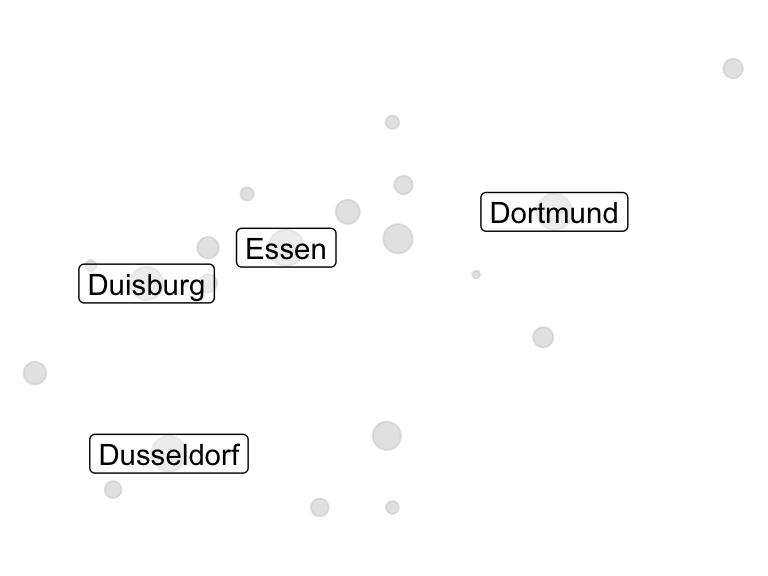
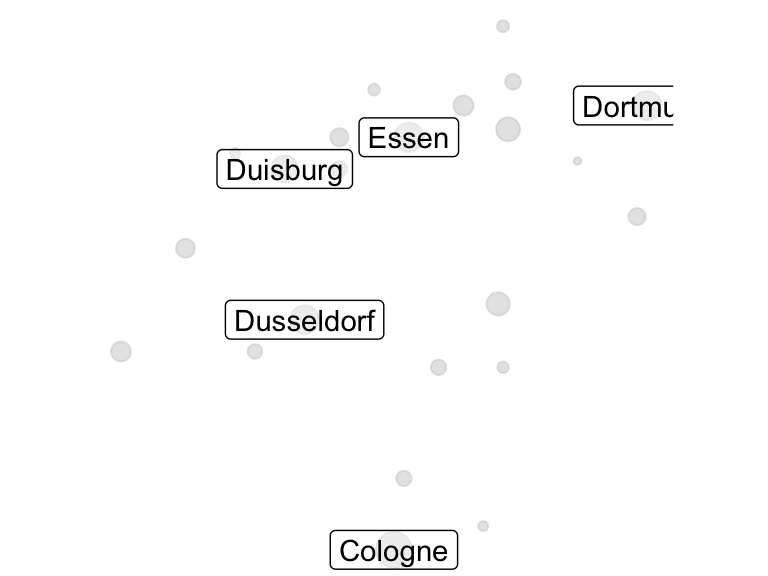
Built site for gh-pages

diff --git a/posts/2024-07-20-r-round/index.html b/posts/2024-07-20-r-round/index.html
@@ -185,7 +185,7 @@ pre > code.sourceCode > span > a:first-child::before { text-decoration: underlin
 
 <section id="round-to-first-two-digits" class="level1">
 <h1>Round to first two digits</h1>
-<p>To improve the readability of a table, I wanted to round various numbers between 100 and 10,000,000 two their first two digits. 123,456 would become 120,000 and 987 would become 980.</p>
+<p>To improve the readability of a table, I wanted to round various numbers between 100 and 10,000,000 to their first two digits. 123,456 would become 120,000 and 987 would become 990.</p>
 <p>Here is the solution I came up with.</p>
 <div class="cell">
 <details class="code-fold">
@@ -202,28 +202,30 @@ pre > code.sourceCode > span > a:first-child::before { text-decoration: underlin
 <span id="cb2-3"><a href="#cb2-3" aria-hidden="true" tabindex="-1"></a>  <span class="fu">round</span>(x <span class="sc">/</span> scale, <span class="dv">2</span>) <span class="sc">*</span> scale</span>
 <span id="cb2-4"><a href="#cb2-4" aria-hidden="true" tabindex="-1"></a>}</span>
 <span id="cb2-5"><a href="#cb2-5" aria-hidden="true" tabindex="-1"></a></span>
-<span id="cb2-6"><a href="#cb2-6" aria-hidden="true" tabindex="-1"></a>x1 <span class="ot">&lt;-</span> <span class="fu">c</span>(<span class="dv">113</span>, <span class="dv">2795</span>, <span class="dv">42459</span>, <span class="dv">442060</span>, <span class="dv">6970466</span>)</span>
+<span id="cb2-6"><a href="#cb2-6" aria-hidden="true" tabindex="-1"></a>x1 <span class="ot">&lt;-</span> <span class="fu">c</span>(<span class="dv">113</span>, <span class="dv">2795</span>, <span class="dv">42459</span>, <span class="dv">442060</span>, <span class="dv">6870466</span>)</span>
 <span id="cb2-7"><a href="#cb2-7" aria-hidden="true" tabindex="-1"></a></span>
 <span id="cb2-8"><a href="#cb2-8" aria-hidden="true" tabindex="-1"></a>x1</span></code><button title="Copy to Clipboard" class="code-copy-button"><i class="bi"></i></button></pre></div>
 <div class="cell-output cell-output-stdout">
-<pre><code>[1]     113    2795   42459  442060 6970466</code></pre>
+<pre><code>[1]     113    2795   42459  442060 6870466</code></pre>
 </div>
 <div class="sourceCode cell-code" id="cb4"><pre class="sourceCode r code-with-copy"><code class="sourceCode r"><span id="cb4-1"><a href="#cb4-1" aria-hidden="true" tabindex="-1"></a><span class="fu">map_dbl</span>(x1, round_first_two)</span></code><button title="Copy to Clipboard" class="code-copy-button"><i class="bi"></i></button></pre></div>
 <div class="cell-output cell-output-stdout">
-<pre><code>[1]     110    2800   42000  440000 7000000</code></pre>
+<pre><code>[1]     110    2800   42000  440000 6900000</code></pre>
 </div>
 </div>
+<section id="copilot" class="level2">
+<h2 class="anchored" data-anchor-id="copilot">Copilot</h2>
 <p><a href="https://copilot.github.com/">GitHub Copilot</a> suggested a more general solution that works for numbers smaller and equal to zero.</p>
 <div class="cell">
-<div class="sourceCode cell-code" id="cb6"><pre class="sourceCode r code-with-copy"><code class="sourceCode r"><span id="cb6-1"><a href="#cb6-1" aria-hidden="true" tabindex="-1"></a>x2 <span class="ot">&lt;-</span> <span class="fu">c</span>(<span class="dv">113</span>, <span class="sc">-</span><span class="dv">2795</span>, <span class="sc">-</span><span class="dv">42459</span>, <span class="sc">-</span><span class="dv">442060</span>, <span class="dv">6970466</span>, <span class="dv">0</span>)</span>
+<div class="sourceCode cell-code" id="cb6"><pre class="sourceCode r code-with-copy"><code class="sourceCode r"><span id="cb6-1"><a href="#cb6-1" aria-hidden="true" tabindex="-1"></a>x2 <span class="ot">&lt;-</span> <span class="fu">c</span>(<span class="dv">113</span>, <span class="sc">-</span><span class="dv">2795</span>, <span class="sc">-</span><span class="dv">42459</span>, <span class="sc">-</span><span class="dv">442060</span>, <span class="dv">6870466</span>, <span class="dv">0</span>)</span>
 <span id="cb6-2"><a href="#cb6-2" aria-hidden="true" tabindex="-1"></a></span>
 <span id="cb6-3"><a href="#cb6-3" aria-hidden="true" tabindex="-1"></a>x2</span></code><button title="Copy to Clipboard" class="code-copy-button"><i class="bi"></i></button></pre></div>
 <div class="cell-output cell-output-stdout">
-<pre><code>[1]     113   -2795  -42459 -442060 6970466       0</code></pre>
+<pre><code>[1]     113   -2795  -42459 -442060 6870466       0</code></pre>
 </div>
 <div class="sourceCode cell-code" id="cb8"><pre class="sourceCode r code-with-copy"><code class="sourceCode r"><span id="cb8-1"><a href="#cb8-1" aria-hidden="true" tabindex="-1"></a><span class="fu">map_dbl</span>(x2, round_first_two)</span></code><button title="Copy to Clipboard" class="code-copy-button"><i class="bi"></i></button></pre></div>
 <div class="cell-output cell-output-stdout">
-<pre><code>[1]     110     NaN     NaN     NaN 7000000     NaN</code></pre>
+<pre><code>[1]     110     NaN     NaN     NaN 6900000     NaN</code></pre>
 </div>
 <div class="sourceCode cell-code" id="cb10"><pre class="sourceCode r code-with-copy"><code class="sourceCode r"><span id="cb10-1"><a href="#cb10-1" aria-hidden="true" tabindex="-1"></a>round_first_two_digits <span class="ot">&lt;-</span> <span class="cf">function</span>(x) {</span>
 <span id="cb10-2"><a href="#cb10-2" aria-hidden="true" tabindex="-1"></a>  <span class="cf">if</span>(x <span class="sc">==</span> <span class="dv">0</span>) <span class="fu">return</span>(<span class="dv">0</span>)</span>
@@ -235,17 +237,18 @@ pre > code.sourceCode > span > a:first-child::before { text-decoration: underlin
 <span id="cb10-8"><a href="#cb10-8" aria-hidden="true" tabindex="-1"></a></span>
 <span id="cb10-9"><a href="#cb10-9" aria-hidden="true" tabindex="-1"></a>x2</span></code><button title="Copy to Clipboard" class="code-copy-button"><i class="bi"></i></button></pre></div>
 <div class="cell-output cell-output-stdout">
-<pre><code>[1]     113   -2795  -42459 -442060 6970466       0</code></pre>
+<pre><code>[1]     113   -2795  -42459 -442060 6870466       0</code></pre>
 </div>
 <div class="sourceCode cell-code" id="cb12"><pre class="sourceCode r code-with-copy"><code class="sourceCode r"><span id="cb12-1"><a href="#cb12-1" aria-hidden="true" tabindex="-1"></a><span class="fu">map_dbl</span>(x2, round_first_two_digits)</span></code><button title="Copy to Clipboard" class="code-copy-button"><i class="bi"></i></button></pre></div>
 <div class="cell-output cell-output-stdout">
-<pre><code>[1]     110   -2800  -42000 -440000 7000000       0</code></pre>
+<pre><code>[1]     110   -2800  -42000 -440000 6900000       0</code></pre>
 </div>
 </div>
 <hr>
 <p><img src="r-logo.png" class="img-fluid" style="width:33.0%"></p>
 
 
+</section>
 </section>
 
 </main> <!-- /main -->

diff --git a/posts/2024-07-17-r-sf-intersection/index.html b/posts/2024-07-17-r-sf-intersection/index.html
@@ -226,7 +226,7 @@ pre > code.sourceCode > span > a:first-child::before { text-decoration: underlin
 <div class="cell">
 <details class="code-fold">
 <summary>Code</summary>
-<div class="sourceCode cell-code" id="cb3"><pre class="sourceCode r code-with-copy"><code class="sourceCode r"><span id="cb3-1"><a href="#cb3-1" aria-hidden="true" tabindex="-1"></a>get_coords <span class="ot">&lt;-</span> <span class="cf">function</span>(bot_x, bot_y, top_x, top_y) {</span>
+<div class="sourceCode cell-code" id="cb3"><pre class="sourceCode r code-with-copy"><code class="sourceCode r"><span id="cb3-1"><a href="#cb3-1" aria-hidden="true" tabindex="-1"></a>get_sf_rectangle <span class="ot">&lt;-</span> <span class="cf">function</span>(bot_x, bot_y, top_x, top_y, <span class="at">crs =</span> <span class="st">"EPSG:4326"</span>) {</span>
 <span id="cb3-2"><a href="#cb3-2" aria-hidden="true" tabindex="-1"></a>  <span class="fu">matrix</span>(</span>
 <span id="cb3-3"><a href="#cb3-3" aria-hidden="true" tabindex="-1"></a>    <span class="fu">c</span>(</span>
 <span id="cb3-4"><a href="#cb3-4" aria-hidden="true" tabindex="-1"></a>      bot_x, bot_y, top_x, bot_y, <span class="co"># bottom left and right</span></span>
@@ -235,17 +235,16 @@ pre > code.sourceCode > span > a:first-child::before { text-decoration: underlin
 <span id="cb3-7"><a href="#cb3-7" aria-hidden="true" tabindex="-1"></a>    ),</span>
 <span id="cb3-8"><a href="#cb3-8" aria-hidden="true" tabindex="-1"></a>    <span class="at">ncol =</span> <span class="dv">2</span>, <span class="at">byrow =</span> <span class="cn">TRUE</span></span>
 <span id="cb3-9"><a href="#cb3-9" aria-hidden="true" tabindex="-1"></a>  ) <span class="sc">|&gt;</span></span>
-<span id="cb3-10"><a href="#cb3-10" aria-hidden="true" tabindex="-1"></a>    <span class="fu">list</span>()</span>
-<span id="cb3-11"><a href="#cb3-11" aria-hidden="true" tabindex="-1"></a>}</span>
-<span id="cb3-12"><a href="#cb3-12" aria-hidden="true" tabindex="-1"></a></span>
-<span id="cb3-13"><a href="#cb3-13" aria-hidden="true" tabindex="-1"></a>clipping_polygon <span class="ot">&lt;-</span></span>
-<span id="cb3-14"><a href="#cb3-14" aria-hidden="true" tabindex="-1"></a>  <span class="fu">get_coords</span>(<span class="fl">6.5</span>, <span class="fl">51.1</span>, <span class="fl">7.9</span>, <span class="fl">51.7</span>) <span class="sc">|&gt;</span></span>
-<span id="cb3-15"><a href="#cb3-15" aria-hidden="true" tabindex="-1"></a>  <span class="fu">st_polygon</span>() <span class="sc">|&gt;</span></span>
-<span id="cb3-16"><a href="#cb3-16" aria-hidden="true" tabindex="-1"></a>  <span class="fu">st_sfc</span>(<span class="at">crs =</span> <span class="dv">4326</span>)</span>
-<span id="cb3-17"><a href="#cb3-17" aria-hidden="true" tabindex="-1"></a></span>
-<span id="cb3-18"><a href="#cb3-18" aria-hidden="true" tabindex="-1"></a>nrw <span class="ot">&lt;-</span></span>
-<span id="cb3-19"><a href="#cb3-19" aria-hidden="true" tabindex="-1"></a>  cities <span class="sc">|&gt;</span></span>
-<span id="cb3-20"><a href="#cb3-20" aria-hidden="true" tabindex="-1"></a>  <span class="fu">st_intersection</span>(clipping_polygon)</span></code><button title="Copy to Clipboard" class="code-copy-button"><i class="bi"></i></button></pre></div>
+<span id="cb3-10"><a href="#cb3-10" aria-hidden="true" tabindex="-1"></a>    <span class="fu">list</span>() <span class="sc">|&gt;</span></span>
+<span id="cb3-11"><a href="#cb3-11" aria-hidden="true" tabindex="-1"></a>    <span class="fu">st_polygon</span>() <span class="sc">|&gt;</span></span>
+<span id="cb3-12"><a href="#cb3-12" aria-hidden="true" tabindex="-1"></a>    <span class="fu">st_sfc</span>(<span class="at">crs =</span> crs)</span>
+<span id="cb3-13"><a href="#cb3-13" aria-hidden="true" tabindex="-1"></a>}</span>
+<span id="cb3-14"><a href="#cb3-14" aria-hidden="true" tabindex="-1"></a></span>
+<span id="cb3-15"><a href="#cb3-15" aria-hidden="true" tabindex="-1"></a>nrw_select <span class="ot">&lt;-</span> <span class="fu">get_sf_rectangle</span>(<span class="fl">6.365</span>, <span class="fl">50.85</span>, <span class="fl">7.6</span>, <span class="fl">51.638</span>)</span>
+<span id="cb3-16"><a href="#cb3-16" aria-hidden="true" tabindex="-1"></a></span>
+<span id="cb3-17"><a href="#cb3-17" aria-hidden="true" tabindex="-1"></a>nrw <span class="ot">&lt;-</span></span>
+<span id="cb3-18"><a href="#cb3-18" aria-hidden="true" tabindex="-1"></a>  cities <span class="sc">|&gt;</span></span>
+<span id="cb3-19"><a href="#cb3-19" aria-hidden="true" tabindex="-1"></a>  <span class="fu">st_intersection</span>(nrw_select)</span></code><button title="Copy to Clipboard" class="code-copy-button"><i class="bi"></i></button></pre></div>
 </details>
 </div>
 <p>Finally, I create a map of the cities in the wider Ruhr area.</p>

diff --git a/index.html b/index.html
@@ -190,7 +190,7 @@ window.Quarto = {
 
 <div class="quarto-listing quarto-listing-container-default" id="listing-listing">
 <div class="list quarto-listing-default">
-<div class="quarto-post image-right" data-index="0" data-categories="R,geo" data-listing-date-sort="1721167200000" data-listing-file-modified-sort="1721290244951" data-listing-date-modified-sort="NaN" data-listing-reading-time-sort="2" data-listing-word-count-sort="272">
+<div class="quarto-post image-right" data-index="0" data-categories="R,geo" data-listing-date-sort="1721167200000" data-listing-file-modified-sort="1721302133168" data-listing-date-modified-sort="NaN" data-listing-reading-time-sort="2" data-listing-word-count-sort="278">
 <div class="thumbnail">
 <p><a href="./posts/2024-07-17-r-sf-intersection/index.html" class="no-external"></a></p><a href="./posts/2024-07-17-r-sf-intersection/index.html" class="no-external">
 <p><img loading="lazy" src="./posts/2024-07-17-r-sf-intersection/sf-logo.png" class="thumbnail-image"></p>
